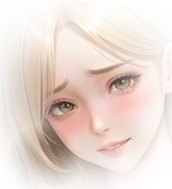
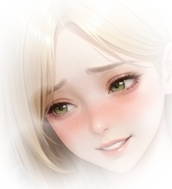
Моргание: в патч шёл базовый арт вместо генерата (поэтому не моргало). Грудь: равные радиусы слева/справа, синхронные фазы, маска не трогает стул

diff --git a/index.html b/index.html
@@ -982,9 +982,8 @@ main{
 /* слой эмоции — не весь кадр, а только область глаз: объект вписывается
    ровно в свой бокс, поэтому совпадает с артом пиксель в пиксель */
 .hero .art-emo.crop{ object-fit:fill; object-position:0 0; }
-/* две груди — два маятника: правой даём свою фазу и свой период дыхания */
-#artChestR i{ animation-delay:-.09s; }
-.hero .art-chest.breathe #artChestR i{ animation-delay:-1.2s; }
+/* обе стороны дышат и колышутся СИНХРОННО: сдвиг фазы читался как
+   «правая и левая не ровно» */
 .hero .art-emo.on{ opacity:1; }
 .hero .art-emo.blink{ transition:none; }
 /* грудь: ДВА отдельных маленьких пропа — по одному на каждую округлость
@@ -1790,11 +1789,11 @@ const BUST_GEO = {
 /* ---- стиль арта: «аниме» (день 1, канон 1) и «реализм» (канон 2) ----
    Геометрия груди у наборов своя: фигура в каноне 2 крупнее и сидит иначе,
    поэтому маски нельзя тащить из аниме-версии. */
+/* радиусы слева и справа РАВНЫ: разные размеры читались как «грудь не ровно» */
 const BUST_GEO_REAL = {
-  sg1: { l:[0.458,0.345,0.044,0.042], r:[0.562,0.338,0.050,0.044] },
-  sg2: { l:[0.505,0.338,0.045,0.045], r:[0.585,0.332,0.052,0.046] },
-  sg3: { l:[0.505,0.334,0.044,0.043], r:[0.578,0.322,0.048,0.044] },
-  sg4: { l:[0.470,0.330,0.048,0.044], r:[0.578,0.324,0.050,0.044] },
+  sg1: { l:[0.458,0.345,0.047,0.043], r:[0.562,0.338,0.047,0.043] },
+  sg3: { l:[0.505,0.334,0.046,0.043], r:[0.578,0.322,0.046,0.043] },
+  sg4: { l:[0.470,0.330,0.049,0.044], r:[0.578,0.324,0.049,0.044] },
 };
 
 const ART_STYLE_KEY = 'fw_art_style';
@@ -1813,10 +1812,8 @@ const ART_MASTER_W = ART_REAL ? 2340 : 3840;
 /* второй день канона 2: геометрия груди своя. Поза 1 — канон, поза 2 полностью
    закрыта коленями (пропов нет), поза 3 в профиль — видна одна округлость. */
 const BUST_GEO_REAL_D2 = {
-  sg1: { l:[0.466,0.304,0.048,0.040], r:[0.571,0.297,0.055,0.042] },
-  sg2: {},
-  sg3: { r:[0.622,0.334,0.044,0.046] },
-  sg4: { l:[0.447,0.300,0.050,0.042], r:[0.580,0.298,0.054,0.044] },
+  sg1: { l:[0.466,0.304,0.052,0.041], r:[0.571,0.297,0.052,0.041] },
+  sg4: { l:[0.447,0.300,0.052,0.043], r:[0.580,0.298,0.052,0.043] },
 };
 const BUST_GEO_D2 = {};
 

diff --git a/tools/prep_eyes.py b/tools/prep_eyes.py
@@ -232,10 +232,20 @@ def build(day, tag, mood, debug=False):
     g2 = gen.resize((round(tw * f), round(th * f)), Image.LANCZOS) if f != 1.0 else gen
     log.append(f'{f:.2f}[{dx},{dy}]{score:.2f}')
 
-    m = Image.new('L', (tw, th), 0)
-    ImageDraw.Draw(m).ellipse(B, fill=255)
-    m = m.filter(ImageFilter.GaussianBlur(max(3, int(min(B[2] - B[0], B[3] - B[1]) * BAND_FEATHER))))
-    alpha = m
+    # Ядро — по каждому глазу почти в полную силу: иначе закрытые веки
+    # ложатся поверх открытых с альфой ~0.4 и моргания не видно вообще.
+    hard = Image.new('L', (tw, th), 0)
+    dh = ImageDraw.Draw(hard)
+    for b in EYES[key]:
+        e = (b[0] * tw, b[1] * th, b[2] * tw, b[3] * th)
+        cx, cy = (e[0] + e[2]) / 2, (e[1] + e[3]) / 2
+        rx, ry = (e[2] - e[0]) / 2 * 1.12, (e[3] - e[1]) / 2 * 1.12
+        dh.ellipse((cx - rx, cy - ry, cx + rx, cy + ry), fill=255)
+    hard = hard.filter(ImageFilter.GaussianBlur(max(2, int(min(B[2] - B[0], B[3] - B[1]) * 0.06))))
+    soft = Image.new('L', (tw, th), 0)
+    ImageDraw.Draw(soft).ellipse(B, fill=255)
+    soft = soft.filter(ImageFilter.GaussianBlur(max(3, int(min(B[2] - B[0], B[3] - B[1]) * BAND_FEATHER))))
+    alpha = Image.fromarray(np.maximum(np.array(hard), (np.array(soft) * 0.85).astype('uint8')), 'L')
 
     if mood == 'shy':
         # щёки: кожа ровная — сюда можно класть содержимое генерата широко и мягко
@@ -251,8 +261,10 @@ def build(day, tag, mood, debug=False):
     # ВАЖНО: RGB остаются «прямыми» (не умноженными на альфу). Раньше слои
     # склеивались через alpha_composite, PIL отдавал премноженный цвет — и
     # полупрозрачный край маски ложился на лицо серой тенью («квадрат»).
-    rgb = ref.copy()
-    rgb.paste(g2, (dx, dy))
+    # КАДР С ГЕНЕРАТОМ: в патч должен идти ИМЕННО он, а не базовый арт.
+    # (Раньше здесь оставался неиспользованный буфер, и слой моргал «пустотой».)
+    canvas_rgb = flat.copy()
+    canvas_rgb.paste(g2, (box[0] + dx, box[1] + dy))
 
     # Кадр целиком отдавать вёрстке нельзя: элемент размером с кадр при
     # каждом моргании подсовывает телефону картинку на весь экран, а в
@@ -266,7 +278,7 @@ def build(day, tag, mood, debug=False):
     gx0, gy0 = max(0.0, gx0), max(0.0, gy0)
     gx1, gy1 = min(1.0, gx1), min(1.0, gy1)
     cbox = (round(W * gx0), round(H * gy0), round(W * gx1), round(H * gy1))
-    full = flat.crop(cbox).convert('RGBA')
+    full = canvas_rgb.crop(cbox).convert('RGBA')
     full_alpha = Image.new('L', full.size, 0)
     full_alpha.paste(alpha, (box[0] - cbox[0], box[1] - cbox[1]))
     full.putalpha(full_alpha)

diff --git a/tools/prep_real_d2_chest.py b/tools/prep_real_d2_chest.py
@@ -30,9 +30,26 @@ SIDES = PL.SIDES
 BUST_D2 = {
     'sg1': ((0.466, 0.304, 0.048, 0.040), (0.571, 0.297, 0.055, 0.042)),  # канон, нога на ногу
     'sg2': (None, None),                                                   # колени закрывают грудь
-    'sg3': (None, (0.622, 0.334, 0.044, 0.046)),                           # профиль, видна одна
+    'sg3': (None, None),                                                    # со спины груди не видно — и стул не тянуть
     'sg4': ((0.447, 0.300, 0.050, 0.042), (0.580, 0.298, 0.054, 0.044)),   # нога на подлокотнике
 }
+
+def _sym(tbl):
+    """Радиусы слева и справа выравниваем: иначе одна сторона заметно меньше
+    и грудь читается как «не ровно». Центры остаются как измерены."""
+    out = {}
+    for tag, v in tbl.items():
+        v = list(v)
+        if len(v) == 2 and v[0] and v[1]:
+            rx = (v[0][2] + v[1][2]) / 2.0
+            ry = (v[0][3] + v[1][3]) / 2.0
+            v[0] = tuple(v[0][:2]) + (rx, ry)
+            v[1] = tuple(v[1][:2]) + (rx, ry)
+        out[tag] = tuple(v)
+    return out
+
+
+BUST_D2 = _sym(BUST_D2)
 
 
 def _sm(tag):
@@ -99,8 +116,35 @@ def punch_hole(tag):
             punch(p, tag, 88)
 
 
+
+
+def _level(fmt, tag):
+    """Выравниваем «массу» масок левой и правой груди: перекос читается как
+    «не ровно»."""
+    items = []
+    for side in SIDES:
+        p = fmt.format(tag=tag, side=side)
+        if os.path.exists(p):
+            items.append((p, np.array(Image.open(p).convert('RGBA'))))
+    if len(items) < 2:
+        return
+    mass = [im[..., 3].astype(np.float32).sum() for _, im in items]
+    tgt = max(mass)
+    for (p, im), m in zip(items, mass):
+        k = min(1.22, tgt / max(m, 1.0))
+        if abs(k - 1.0) < 0.03:
+            continue
+        a = im.copy()
+        a[..., 3] = np.clip(a[..., 3].astype(np.float32) * k, 0, 255).astype('uint8')
+        Image.fromarray(a, 'RGBA').save(p, 'WEBP', quality=92, alpha_quality=100, method=6)
+        print(f'  выровнено {os.path.basename(p)} x{k:.2f}')
+
+
+_FMT = os.path.join(A, 'chest_real_day2_{tag}_{side}.webp')
+
 if __name__ == '__main__':
     for tag in ('sg1', 'sg2', 'sg3', 'sg4'):
         print(f'{tag}:')
-        chest_patch(tag)   # прокола нет: маска ложится на целый арт
+        chest_patch(tag)
+        _level(_FMT, tag)   # прокола нет: маска ложится на целый арт
     print('готово')

diff --git a/tools/prep_real_chest.py b/tools/prep_real_chest.py
@@ -32,6 +32,23 @@ BUST_REAL = {
     'sg4': ((0.470, 0.330, 0.048, 0.044), (0.578, 0.324, 0.050, 0.044)),  # топ, колени обняла
 }
 
+def _sym(tbl):
+    """Радиусы слева и справа выравниваем: иначе одна сторона заметно меньше
+    и грудь читается как «не ровно». Центры остаются как измерены."""
+    out = {}
+    for tag, v in tbl.items():
+        v = list(v)
+        if len(v) == 2 and v[0] and v[1]:
+            rx = (v[0][2] + v[1][2]) / 2.0
+            ry = (v[0][3] + v[1][3]) / 2.0
+            v[0] = tuple(v[0][:2]) + (rx, ry)
+            v[1] = tuple(v[1][:2]) + (rx, ry)
+        out[tag] = tuple(v)
+    return out
+
+
+BUST_REAL = _sym(BUST_REAL)
+
 
 def _sm(tag):
     return os.path.join(A, f'art_real_day1_{tag}_sm.webp')
@@ -88,8 +105,35 @@ def punch_hole(tag):
             punch(p, tag, 88)
 
 
+
+
+def _level(fmt, tag):
+    """Выравниваем «массу» масок левой и правой груди: перекос читается как
+    «не ровно»."""
+    items = []
+    for side in SIDES:
+        p = fmt.format(tag=tag, side=side)
+        if os.path.exists(p):
+            items.append((p, np.array(Image.open(p).convert('RGBA'))))
+    if len(items) < 2:
+        return
+    mass = [im[..., 3].astype(np.float32).sum() for _, im in items]
+    tgt = max(mass)
+    for (p, im), m in zip(items, mass):
+        k = min(1.22, tgt / max(m, 1.0))
+        if abs(k - 1.0) < 0.03:
+            continue
+        a = im.copy()
+        a[..., 3] = np.clip(a[..., 3].astype(np.float32) * k, 0, 255).astype('uint8')
+        Image.fromarray(a, 'RGBA').save(p, 'WEBP', quality=92, alpha_quality=100, method=6)
+        print(f'  выровнено {os.path.basename(p)} x{k:.2f}')
+
+
+_FMT = os.path.join(A, 'chest_real_{tag}_{side}.webp')
+
 if __name__ == '__main__':
     for tag in ('sg1', 'sg2', 'sg3', 'sg4'):
         print(f'{tag}:')
-        chest_patch(tag)   # прокола нет: маска ложится на целый арт
+        chest_patch(tag)
+        _level(_FMT, tag)   # прокола нет: маска ложится на целый арт
     print('готово')

diff --git a/tools/prep_light.py b/tools/prep_light.py
@@ -88,6 +88,21 @@ def _bulge_mask(size, cx, cy, rx, ry, img=None):
         # гасим у контуров только растушёвку; ядро внутри груди остаётся целым,
         # иначе внутренние складки ткани съедают всю маску и движение пропадает
         m = np.maximum(core_a * 0.92, soft_a * (1.0 - 0.92 * edge))
+
+        # и не трогаем то, что грудью не является: зелёный фон и тёмный стул.
+        # Иначе на краю маски уезжает спинка кресла — «грудь цепляет стул».
+        arr = np.asarray(img.convert('RGB')).astype(np.float32)
+        green = np.linalg.norm(arr - np.array([13.0, 178.0, 38.0])[None, None, :], axis=2) < 62
+        # Стул — это почти чёрный и обесцвеченный; тень на ткани теплее и
+        # светлее (p5 ≈ 85), поэтому порог низкий: иначе тень съедала маску
+        # с одной стороны и грудь выглядела «не ровно».
+        sat = arr.max(axis=2) - arr.min(axis=2)
+        dark = (arr.mean(axis=2) < 62) & (sat < 34)
+        keep = (~(green | dark)).astype(np.float32)
+        keep = np.asarray(Image.fromarray((keep * 255).astype('uint8'), 'L')
+                          .filter(ImageFilter.GaussianBlur(4)), dtype=np.float32) / 255.0
+        keep_hard = (~(green | dark)).astype(np.float32)  # без размытия: стул не трогаем вообще
+        m = m * keep * keep_hard
     return Image.fromarray((np.clip(m, 0, 1) * 255).astype('uint8'), 'L')
 
 
